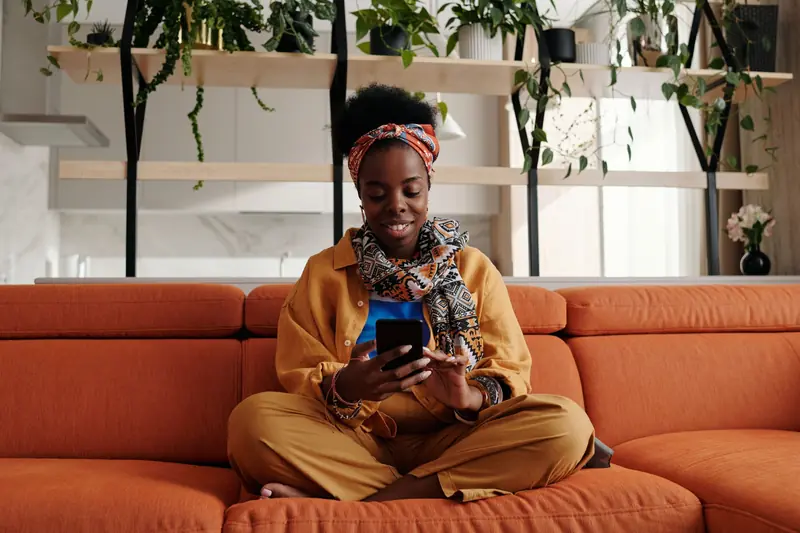
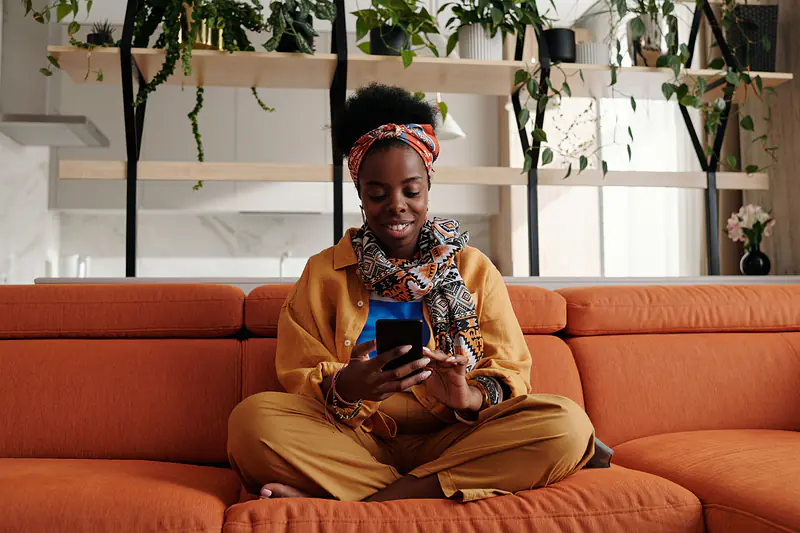
Drop the photo credit captions and sharpen the photos
The "Photo: … on Pexels" lines under every photo and on the Log in /
Register panel are gone. The Pexels license doesn't require on-page
attribution, so the photographers stay credited in photos/CREDITS.md.

The photos were soft because they were exported from Pexels' compressed
2400px previews at only two widths, so retina screens often stretched
the smaller file over a cropped box. They're now exported from the
full-size originals (Lanczos, light sharpening, webp q84) at 800, 1400
and 2000px, and each `sizes` accounts for the object-cover crop, so the
browser picks a file at least as wide as what it draws.

Claude-Session: https://claude.ai/code/session_01GCJNozvAjURMDj9vkio2ny

diff --git a/apps/web/src/components/marketing/photos.ts b/apps/web/src/components/marketing/photos.ts
@@ -1,43 +1,31 @@
-/** A stock photo from /public/photos, with the photographer it came from. */
+/** A stock photo from /public/photos. Sources and photographers are listed in public/photos/CREDITS.md. */
 export interface StockPhoto {
   src: string;
   srcSet: string;
   width: number;
   height: number;
   alt: string;
-  credit: { name: string; url: string };
 }
 
-/** Every photo is a 3:2 Pexels shot exported to webp at a small and a large width. */
-function pexels(file: string, [small, large]: [number, number], alt: string, photographer: string, id: number): StockPhoto {
+/** Every photo is a 3:2 shot exported from the full-size original to webp at these widths. */
+const WIDTHS = [800, 1400, 2000];
+
+function photo(file: string, alt: string): StockPhoto {
   return {
-    src: `/photos/${file}-${large}.webp`,
-    srcSet: `/photos/${file}-${small}.webp ${small}w, /photos/${file}-${large}.webp ${large}w`,
-    width: large,
-    height: Math.round((large * 2) / 3),
+    src: `/photos/${file}-1400.webp`,
+    srcSet: WIDTHS.map((width) => `/photos/${file}-${width}.webp ${width}w`).join(", "),
+    width: 2000,
+    height: 1333,
     alt,
-    credit: { name: photographer, url: `https://www.pexels.com/photo/${id}/` },
   };
 }
 
 export const PHOTOS = {
-  bookingOnPhone: pexels(
-    "booking-on-phone",
-    [800, 1600],
-    "A woman in a head wrap smiling at her phone while she books, sitting cross-legged on a sofa",
-    "Diva Plavalaguna",
-    5711715,
-  ),
-  busyBarbershop: pexels(
-    "busy-barbershop",
-    [1000, 2000],
-    "A busy barbershop: the barber is mid-cut while two more customers wait their turn",
-    "RDNE Stock project",
-    7697655,
-  ),
-  braiding: pexels("braiding", [700, 1200], "Close-up of hands braiding a client's hair", "Gabriel Frank", 11482128),
-  lashArtist: pexels("lash-artist", [700, 1200], "A lash artist placing lash extensions with tweezers", "RDNE Stock project", 7755525),
-  barberMidCut: pexels("barber-mid-cut", [700, 1200], "A barber cutting a client's hair with clippers", "RDNE Stock project", 7697644),
-  nailTech: pexels("nail-tech", [700, 1200], "A smiling client at the nail bar while her nails are done", "RDNE Stock project", 7755248),
-  barberFade: pexels("barber-fade", [700, 1200], "A barber giving a young boy a fade with clippers", "RDNE Stock project", 7697673),
+  bookingOnPhone: photo("booking-on-phone", "A woman in a head wrap smiling at her phone while she books, sitting cross-legged on a sofa"),
+  busyBarbershop: photo("busy-barbershop", "A busy barbershop: the barber is mid-cut while two more customers wait their turn"),
+  braiding: photo("braiding", "Close-up of hands braiding a client's hair"),
+  lashArtist: photo("lash-artist", "A lash artist placing lash extensions with tweezers"),
+  barberMidCut: photo("barber-mid-cut", "A barber cutting a client's hair with clippers"),
+  nailTech: photo("nail-tech", "A smiling client at the nail bar while her nails are done"),
+  barberFade: photo("barber-fade", "A barber giving a young boy a fade with clippers"),
 } satisfies Record<string, StockPhoto>;

diff --git a/apps/web/src/pages/marketing/HomePage.tsx b/apps/web/src/pages/marketing/HomePage.tsx
@@ -2,10 +2,11 @@ import { Link } from "react-router-dom";
 import { motion } from "motion/react";
 import { ArrowRight } from "lucide-react";
 import { MarketingLayout } from "../../components/marketing/MarketingLayout";
-import { CtaBand, PhotoFigure, Reveal } from "../../components/marketing/primitives";
+import { CtaBand, Photo, Reveal } from "../../components/marketing/primitives";
 import { PHOTOS } from "../../components/marketing/photos";
 
-const ROW_SIZES = "(min-width: 1152px) 512px, (min-width: 1024px) 45vw, 100vw";
+// Row photos sit in a 4:3 box, so the 3:2 image renders 1.125x wider than its column.
+const ROW_SIZES = "(min-width: 1152px) 576px, (min-width: 1024px) 50vw, 110vw";
 
 const ROWS = [
   {
@@ -57,13 +58,8 @@ export function HomePage() {
             <p className="mt-6 text-sm text-white/50">Free while we&apos;re in early access. Prices in naira; works in any currency.</p>
           </motion.div>
           <motion.div initial={{ opacity: 0, y: 14 }} animate={{ opacity: 1, y: 0 }} transition={{ duration: 0.6, delay: 0.15 }}>
-            <PhotoFigure
-              photo={PHOTOS.bookingOnPhone}
-              sizes="(min-width: 1024px) 880px, 100vw"
-              imgClassName="aspect-[4/3] lg:aspect-[4/5]"
-              eager
-              onDark
-            />
+            {/* Cropped to 4:5 on desktop, so the image renders about 1.9x wider than its column. */}
+            <Photo photo={PHOTOS.bookingOnPhone} sizes="(min-width: 1152px) 870px, (min-width: 1024px) 75vw, 110vw" className="aspect-[4/3] lg:aspect-[4/5]" eager />
           </motion.div>
         </div>
       </section>
@@ -76,12 +72,7 @@ export function HomePage() {
               Today&apos;s appointments, who still needs confirming, and how the month compares with last month.
             </p>
           </div>
-          <PhotoFigure
-            photo={PHOTOS.busyBarbershop}
-            sizes="(min-width: 1152px) 1088px, 100vw"
-            imgClassName="aspect-[3/2] object-[50%_15%] sm:aspect-[16/9]"
-            className="mt-8"
-          />
+          <Photo photo={PHOTOS.busyBarbershop} sizes="(min-width: 1152px) 1088px, 100vw" className="mt-8 aspect-[3/2] object-[50%_15%] sm:aspect-[16/9]" />
         </Reveal>
       </section>
 
@@ -100,7 +91,7 @@ export function HomePage() {
                 </Link>
               </Reveal>
               <Reveal delay={0.1} className={index % 2 === 1 ? "lg:order-1" : ""}>
-                <PhotoFigure photo={row.photo} sizes={ROW_SIZES} />
+                <Photo photo={row.photo} sizes={ROW_SIZES} />
               </Reveal>
             </div>
           ))}

diff --git a/apps/web/src/components/marketing/primitives.tsx b/apps/web/src/components/marketing/primitives.tsx
@@ -82,48 +82,20 @@ export function PhoneFrame({ src, alt, className = "", bar = "light" }: { src: s
   );
 }
 
-/** A real photo, cropped by `imgClassName`'s aspect ratio, with its photographer credited underneath. */
-export function PhotoFigure({
-  photo,
-  sizes,
-  className = "",
-  imgClassName = "aspect-[4/3]",
-  eager = false,
-  onDark = false,
-}: {
-  photo: StockPhoto;
-  sizes: string;
-  className?: string;
-  imgClassName?: string;
-  eager?: boolean;
-  onDark?: boolean;
-}) {
+/** A real photo, cropped to `className`'s aspect ratio. `sizes` should describe the cropped render, which can be wider than the box. */
+export function Photo({ photo, sizes, className = "aspect-[4/3]", eager = false }: { photo: StockPhoto; sizes: string; className?: string; eager?: boolean }) {
   return (
-    <figure className={className}>
-      <img
-        src={photo.src}
-        srcSet={photo.srcSet}
-        sizes={sizes}
-        alt={photo.alt}
-        width={photo.width}
-        height={photo.height}
-        loading={eager ? "eager" : "lazy"}
-        decoding="async"
-        className={`block w-full rounded-2xl object-cover sm:rounded-3xl ${imgClassName}`}
-      />
-      <figcaption className={`mt-2.5 text-xs ${onDark ? "text-white/45" : "text-stone-500"}`}>
-        Photo:{" "}
-        <a
-          href={photo.credit.url}
-          target="_blank"
-          rel="noopener noreferrer"
-          className={`underline underline-offset-2 ${onDark ? "decoration-white/25 hover:text-white/80" : "decoration-stone-300 hover:text-stone-800"}`}
-        >
-          {photo.credit.name}
-        </a>{" "}
-        on Pexels
-      </figcaption>
-    </figure>
+    <img
+      src={photo.src}
+      srcSet={photo.srcSet}
+      sizes={sizes}
+      alt={photo.alt}
+      width={photo.width}
+      height={photo.height}
+      loading={eager ? "eager" : "lazy"}
+      decoding="async"
+      className={`block w-full rounded-2xl object-cover sm:rounded-3xl ${className}`}
+    />
   );
 }
 

diff --git a/apps/web/src/components/AuthBrandPanel.tsx b/apps/web/src/components/AuthBrandPanel.tsx
@@ -30,24 +30,19 @@ export function AuthBrandPanel({ headline, description }: { headline: string; de
         </ul>
       </div>
 
-      <figure className="relative -mb-10 -mr-10 mt-auto pt-12 xl:-mb-14 xl:-mr-14">
+      <div className="relative -mb-10 -mr-10 mt-auto pt-12 xl:-mb-14 xl:-mr-14">
         <img
           src={photo.src}
           srcSet={photo.srcSet}
-          sizes="(min-width: 1280px) 50vw, 512px"
+          sizes="50vw"
           alt={photo.alt}
           width={photo.width}
           height={photo.height}
+          loading="lazy"
+          decoding="async"
           className="block aspect-[3/2] w-full rounded-tl-2xl object-cover"
         />
-        <figcaption className="absolute inset-x-0 bottom-0 bg-gradient-to-t from-black/60 to-transparent px-4 pb-3 pt-8 text-[11px] text-white/75">
-          Photo:{" "}
-          <a href={photo.credit.url} target="_blank" rel="noopener noreferrer" className="underline decoration-white/30 underline-offset-2 hover:text-white">
-            {photo.credit.name}
-          </a>{" "}
-          on Pexels
-        </figcaption>
-      </figure>
+      </div>
     </div>
   );
 }

diff --git a/apps/web/public/photos/CREDITS.md b/apps/web/public/photos/CREDITS.md
@@ -1,10 +1,10 @@
 # Photo credits
 
-Photos on the home page and the sign-in/sign-up panel. All come from Pexels and are used under the
-[Pexels license](https://www.pexels.com/license/) (free to use, attribution appreciated). Each one is
-credited on the page where it appears; `src/components/marketing/photos.ts` is the source of truth.
+Photos on the home page and the Log in / Register panel. All come from Pexels and are used under the
+[Pexels license](https://www.pexels.com/license/), which doesn't require on-page attribution, so the
+photographers are credited here instead.
 
-Every file was resized and converted to webp at two widths (`-700`/`-1200`; `-800`/`-1600` for the hero, which is cropped tall on desktop; `-1000`/`-2000` for the wide one).
+Each file was exported from the full-size original to webp at 800, 1400 and 2000 px wide.
 
 | File | Used on | Photographer | Original |
 | --- | --- | --- | --- |
